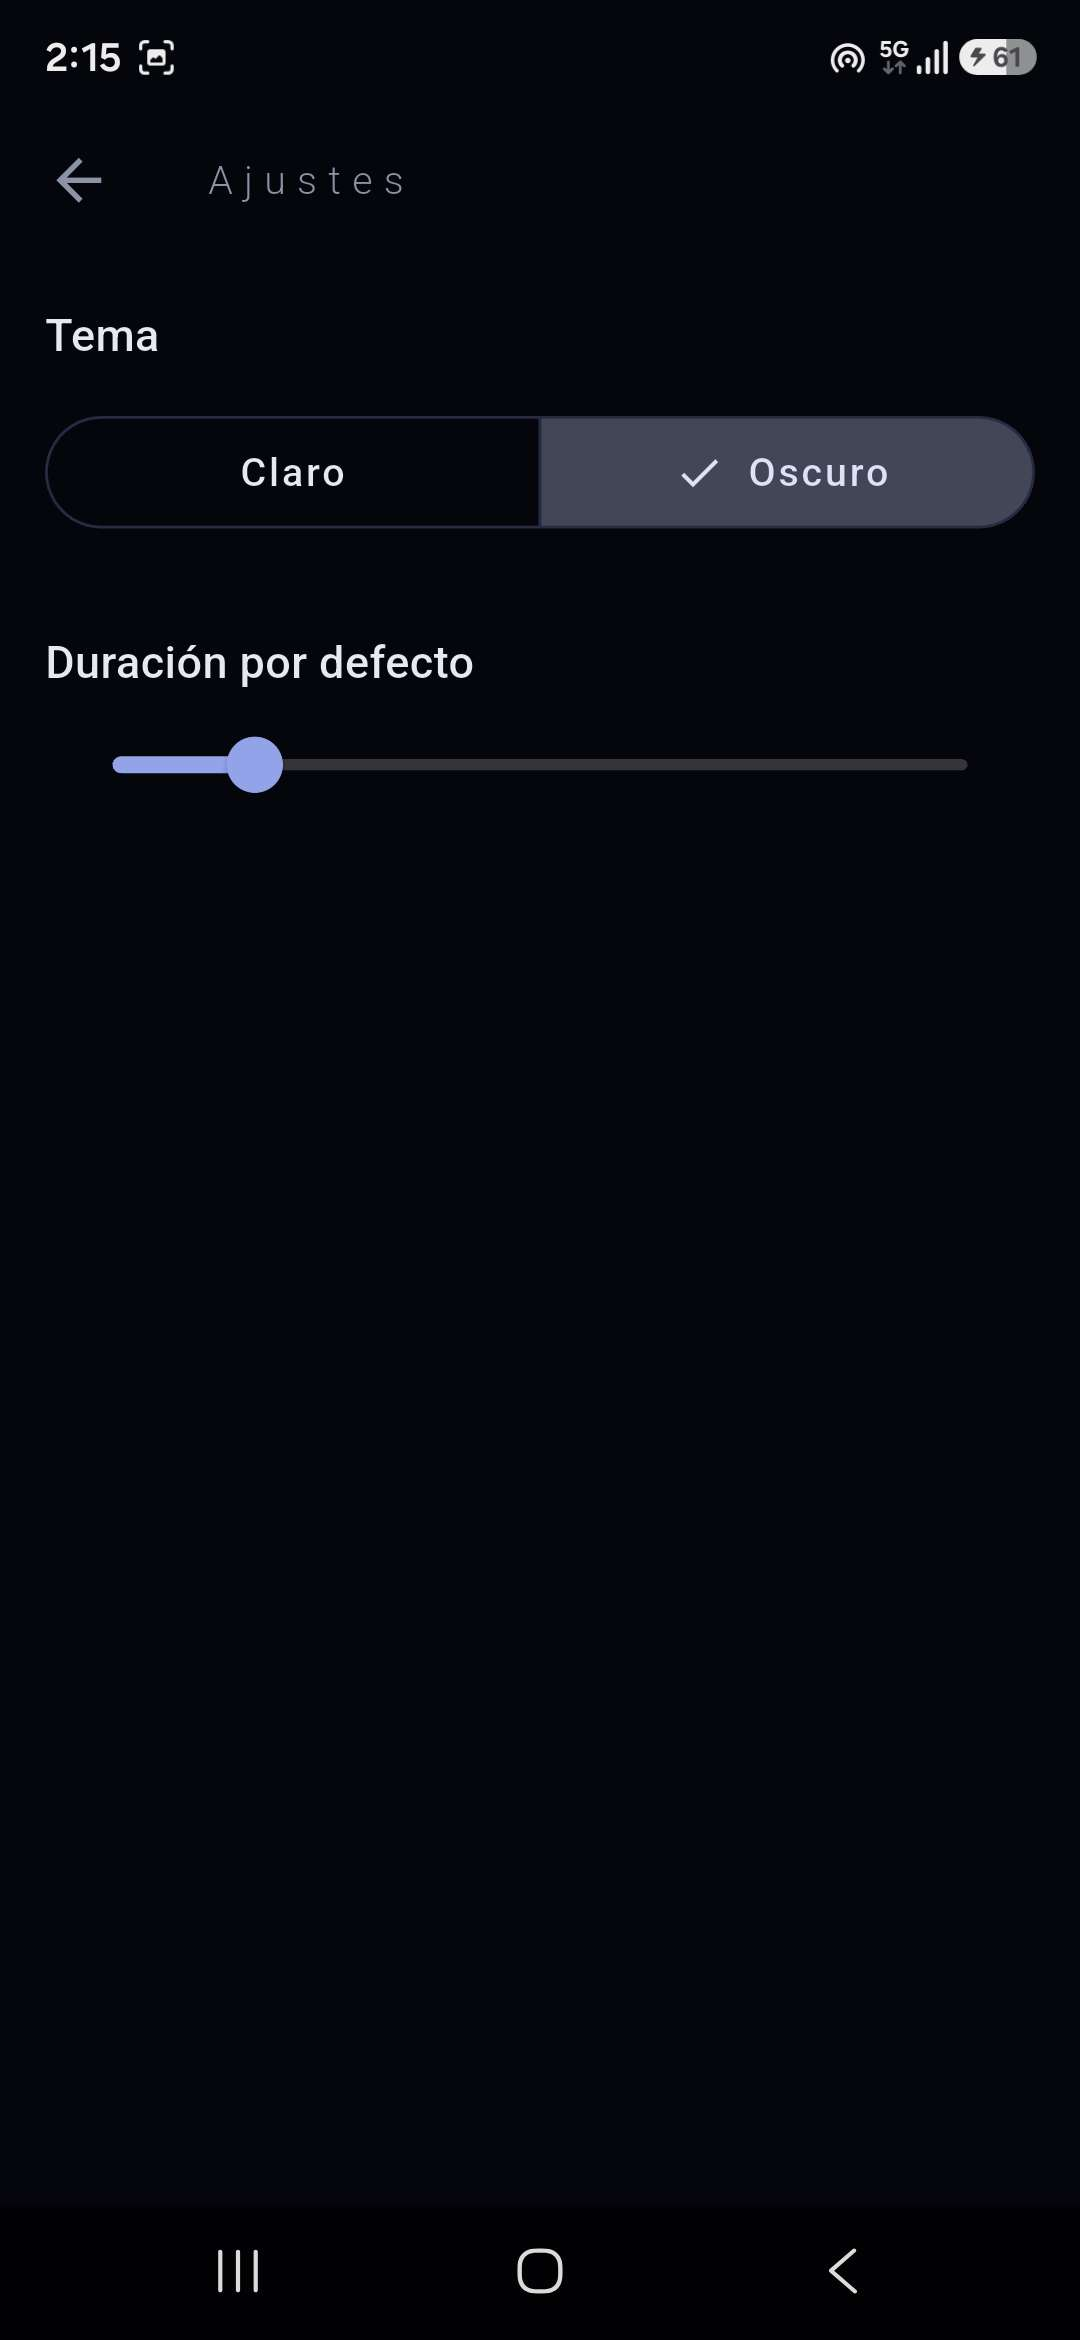
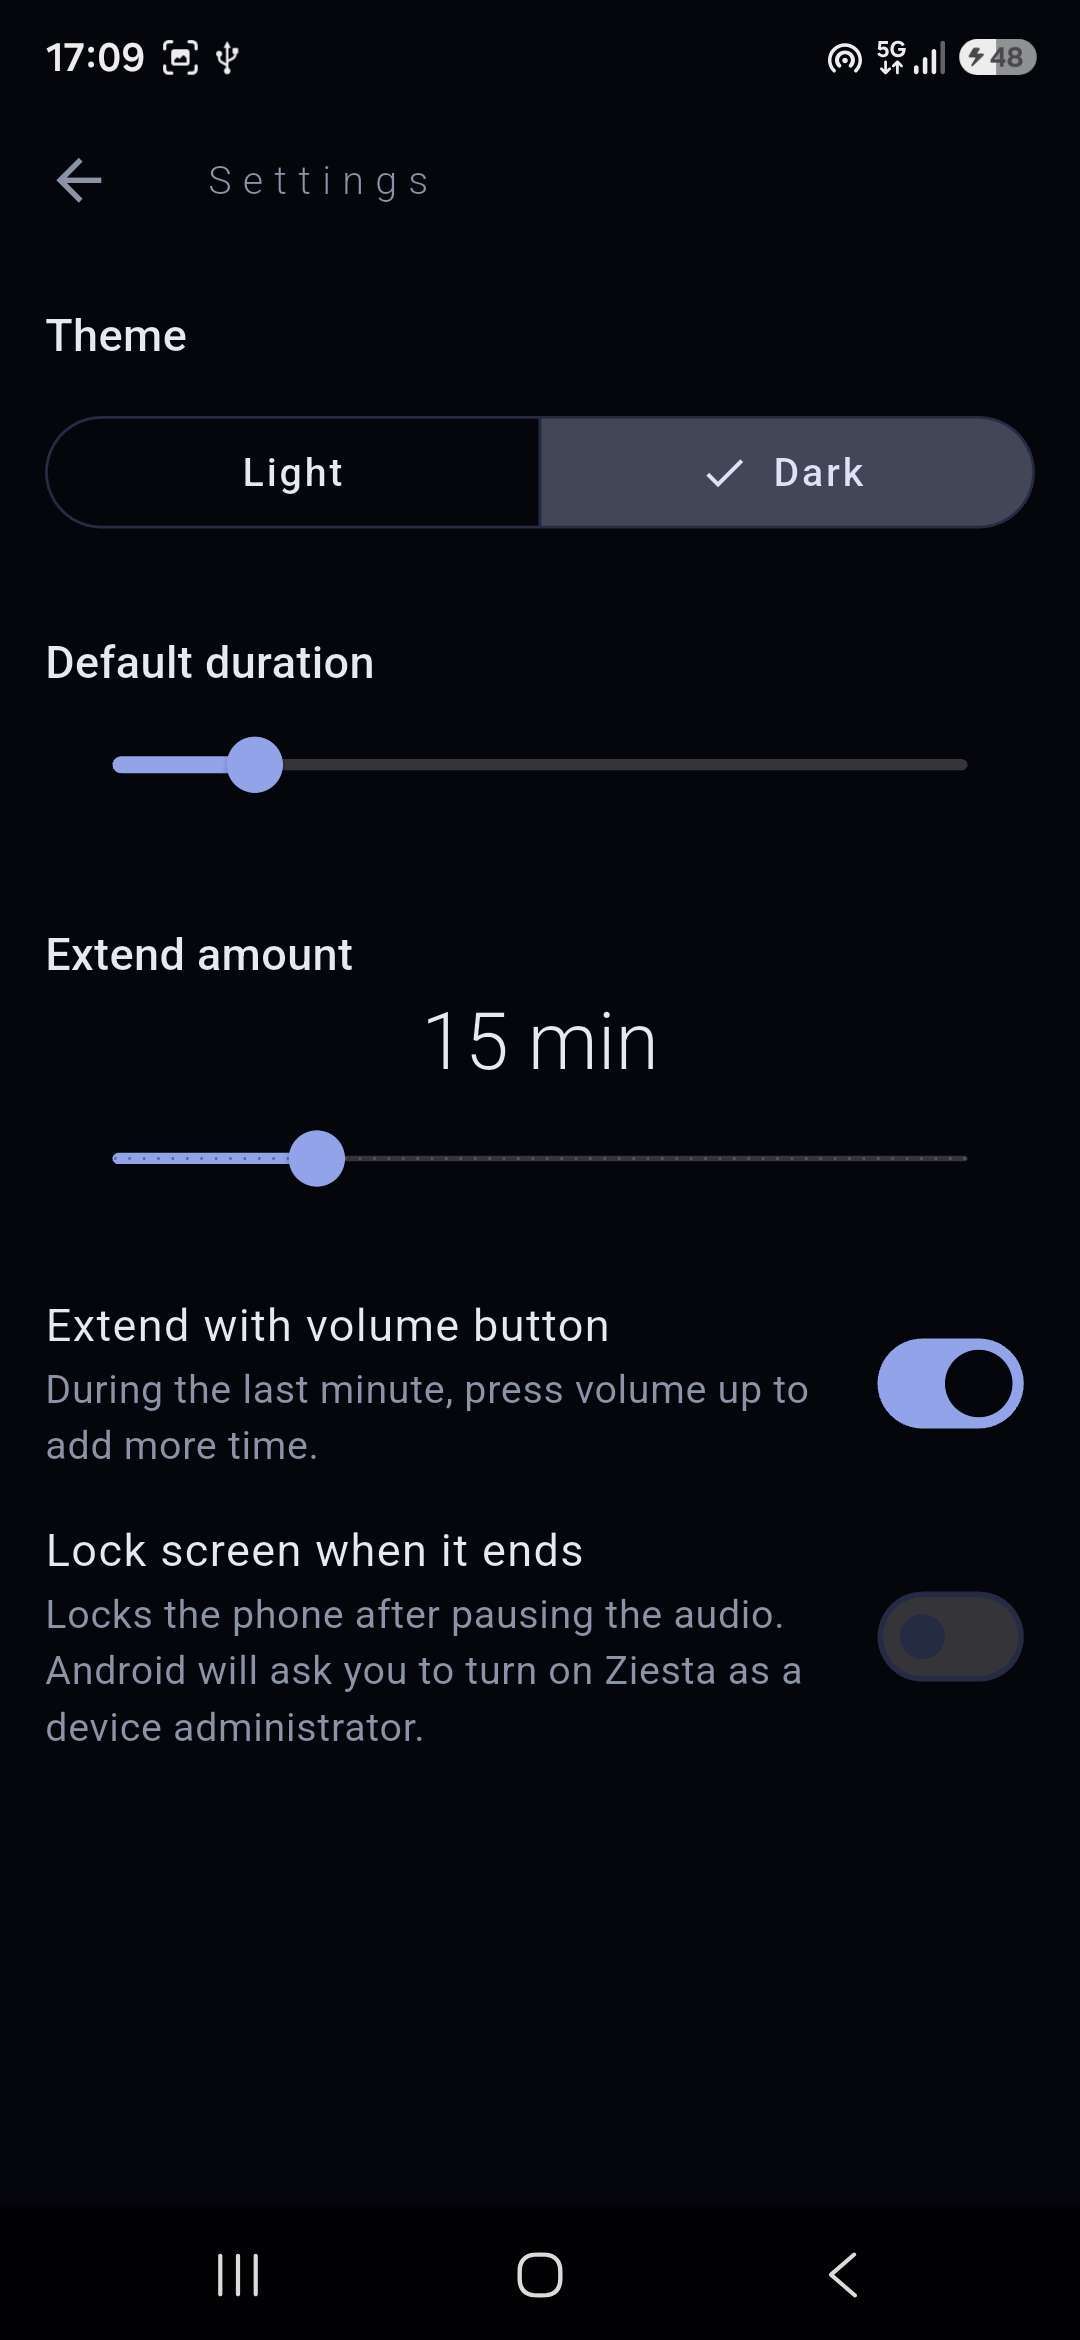
add  FAQ screenshot to the README

diff --git a/README.md b/README.md
@@ -3,19 +3,26 @@
 A sleep timer for Android that **pauses the audio of other apps** (YouTube, Twitch...)
 after the time you choose, so you never wake up with a video still playing.
 
-![Main screen](docs/screenshots/main.png)
-![Countdown](docs/screenshots/countdown.png)
-![Settings](docs/screenshots/settings.png)
+<p align="center">
+  <img src="docs/screenshots/main.png" width="22%" alt="Main screen">
+  <img src="docs/screenshots/countdown.png" width="22%" alt="Countdown">
+  <img src="docs/screenshots/settings.png" width="22%" alt="Settings">
+  <img src="docs/screenshots/faq.png" width="22%" alt="FAQ">
+</p>
 
 ## Features
 
 - Pick the time with a wheel (1-180 minutes) or one of the quick buttons: 10, 20, 30 and 60 minutes.
 - Works with the screen off and with the app closed.
-- Persistent, silent notification with a live countdown and **+15 min** and **Cancel** buttons,
+- Persistent, silent notification with a live countdown and **+N min** and **Cancel** buttons,
   so you can extend or stop the timer without opening the app.
+- Configurable extend amount (1-60 minutes) in Settings.
 - Gradual volume fade during the last minute; the original volume is restored after the pause.
-- Settings: default duration and light/dark theme (dark by default).
-- Minimalist dark interface, in Spanish and English.
+- Optional: press volume up during the fade to extend the timer (on by default).
+- Optional: lock the screen when the timer ends (off by default, needs the device administrator
+  permission).
+- Menu with **Share the app** and an in-app **FAQ**.
+- Minimalist dark interface (light theme available), in Spanish and English.
 
 ## How it works
 
@@ -26,13 +33,17 @@ Flutter can't control other apps' audio by itself, so the project combines two l
   - `AlarmManager` schedules an exact alarm that fires even in Doze mode.
   - A `BroadcastReceiver` requests **audio focus** and sends a **media pause key event**,
     which makes players such as YouTube and Twitch pause.
-  - A short foreground service lowers the media volume during the last minute.
+  - A short foreground service lowers the media volume during the last minute and, if enabled,
+    watches for volume-up presses to extend the timer.
   - An ongoing notification shows the countdown (drawn by the system, so it costs no battery)
     and handles the extend and cancel actions.
+  - The optional screen lock uses the Device Administrator API with the `force-lock` policy only
+    (`DevicePolicyManager.lockNow()`). It lives in its own files so it can be removed easily.
 
-The native side owns the timer: it stores the end time, so the notification buttons work
-even if the app is closed. The Flutter side only asks for that time (once at startup and then
-every second while a countdown is visible), so the screen always stays in sync.
+The native side owns the timer: it stores the end time and the timer-related settings, so the
+notification buttons work even if the app is closed. The Flutter side only asks for that data
+(once at startup and then every second while a countdown is visible), so the screen always
+stays in sync.
 
 ## Install
 
@@ -43,6 +54,8 @@ Requires Android 8.0 or newer. On first use, Ziesta asks for:
 
 - **Alarms & reminders** (exact alarms), to pause at the right time.
 - **Notifications**, to show the countdown.
+- **Device administrator**, only if you turn on the screen lock option. It is used to lock the
+  screen and nothing else.
 
 ## Build from source
 
@@ -60,12 +73,13 @@ To build a signed release you need your own keystore and an `android/key.propert
 
 ```
 lib/
-  core/        shared code (native channel, preferences, theme)
+  core/        shared code (native channel, preferences, theme, links)
   features/
     timer/     timer screen, state and countdown
     settings/  settings screen and state
+    menu/      app menu and FAQ
   l10n/        translations (.arb)
-android/app/src/main/kotlin/   alarm, audio, volume fade and notification code
+android/app/src/main/kotlin/   alarm, audio, volume fade, notification and screen lock code
 test/                          unit and widget tests
 ```
 
@@ -75,3 +89,7 @@ test/                          unit and widget tests
 - Tested with the YouTube and Twitch apps; other players may ignore audio focus
   and media keys.
 - The volume fade changes the system media volume and restores it afterwards.
+- Extending with the volume button depends on how the device reports volume changes and may not
+  work on every phone.
+- While the screen lock option is on, Ziesta is a device administrator and Android will not let you
+  uninstall it. Turn the option off in Settings first.
